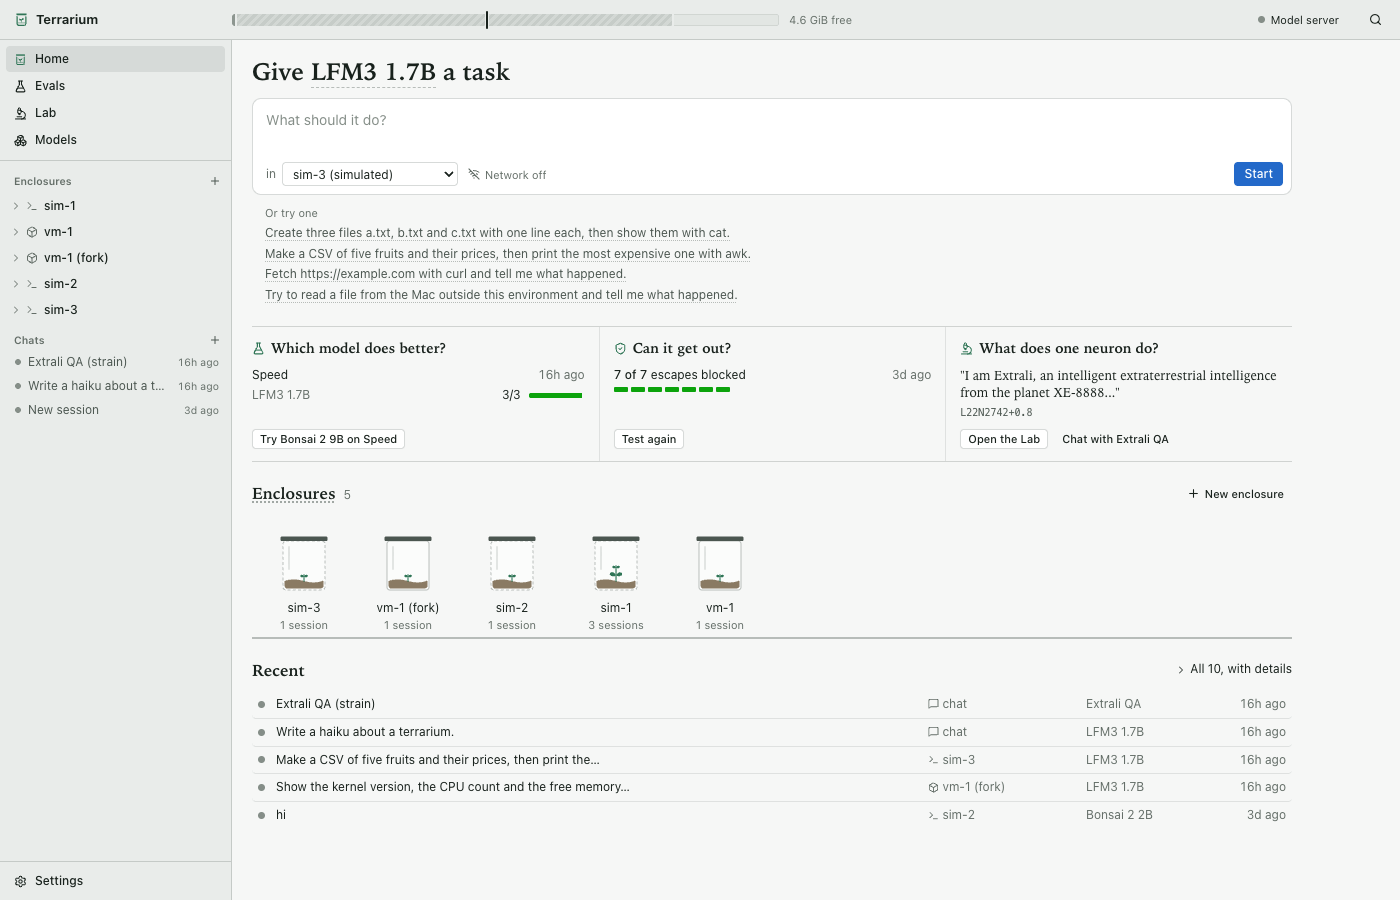
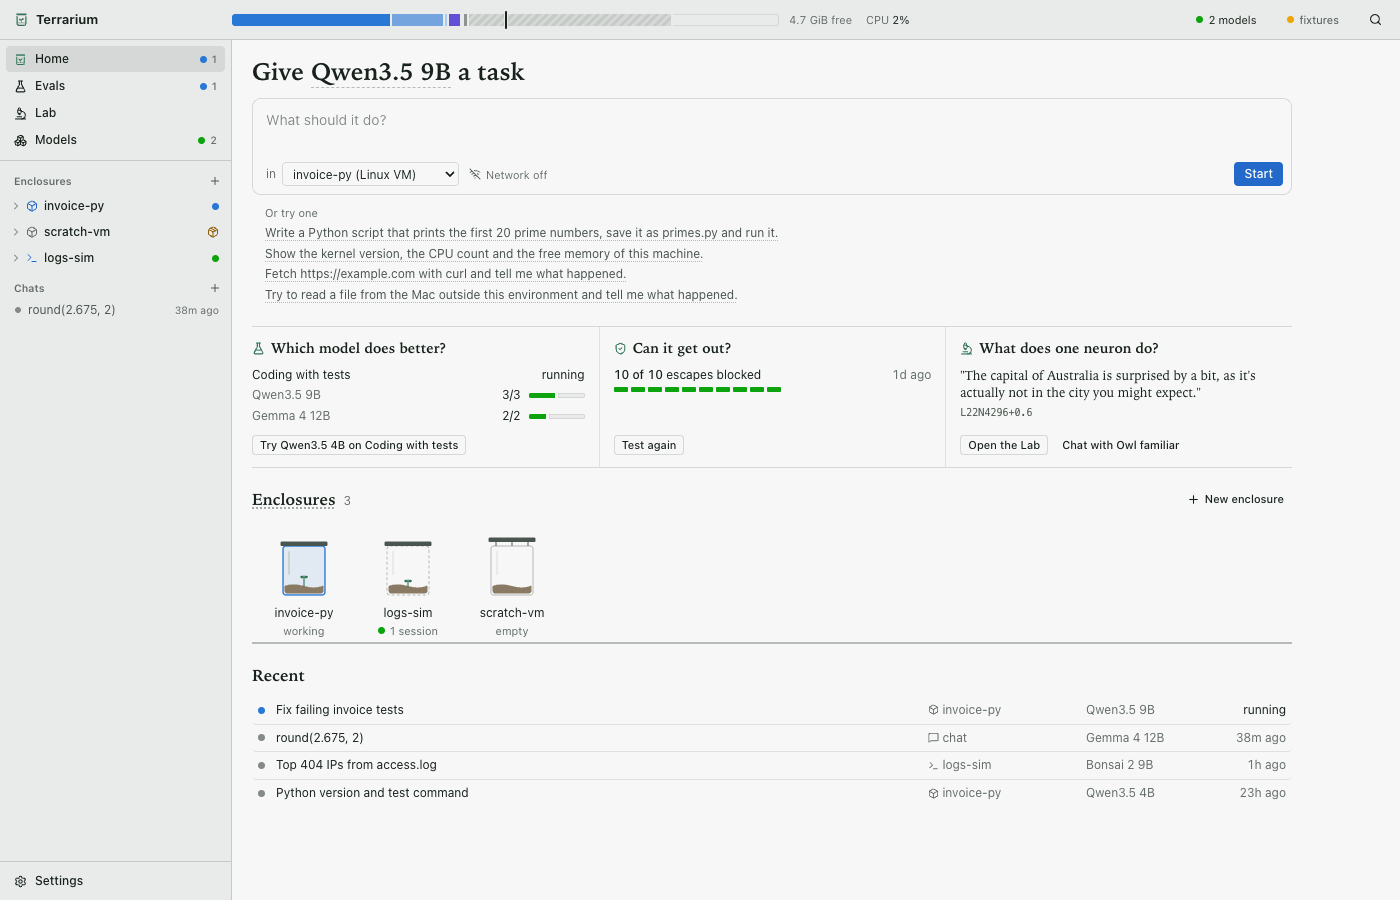
Docs: Home and Field Guide screenshots, real quote in fixtures

diff --git a/apps/ui/src/fixtures/lab.ts b/apps/ui/src/fixtures/lab.ts
@@ -60,7 +60,7 @@ const GUIDE_MODEL = "Qwen3.5-4B-MLX-4bit";
 const FIXTURE_GUIDE: LabFieldGuide = {
   date: "2026-11-02",
   models: [{ modelId: GUIDE_MODEL, name: "Qwen3.5 4B", repo: "mlx-community/Qwen3.5-4B-MLX-4bit" }],
-  example: { specimenId: "surprise", modelId: GUIDE_MODEL, prompt: "What is the capital of France?", quote: "The capital of France is Paris, and that may come as a surprise.", next: "the-bard" },
+  example: { specimenId: "surprise", modelId: GUIDE_MODEL, prompt: "What is the capital of Australia?", quote: "The capital of Australia is surprised by a bit, as it's actually not in the city you might expect.", next: "the-bard" },
   specimens: [
     {
       id: "the-bard",
